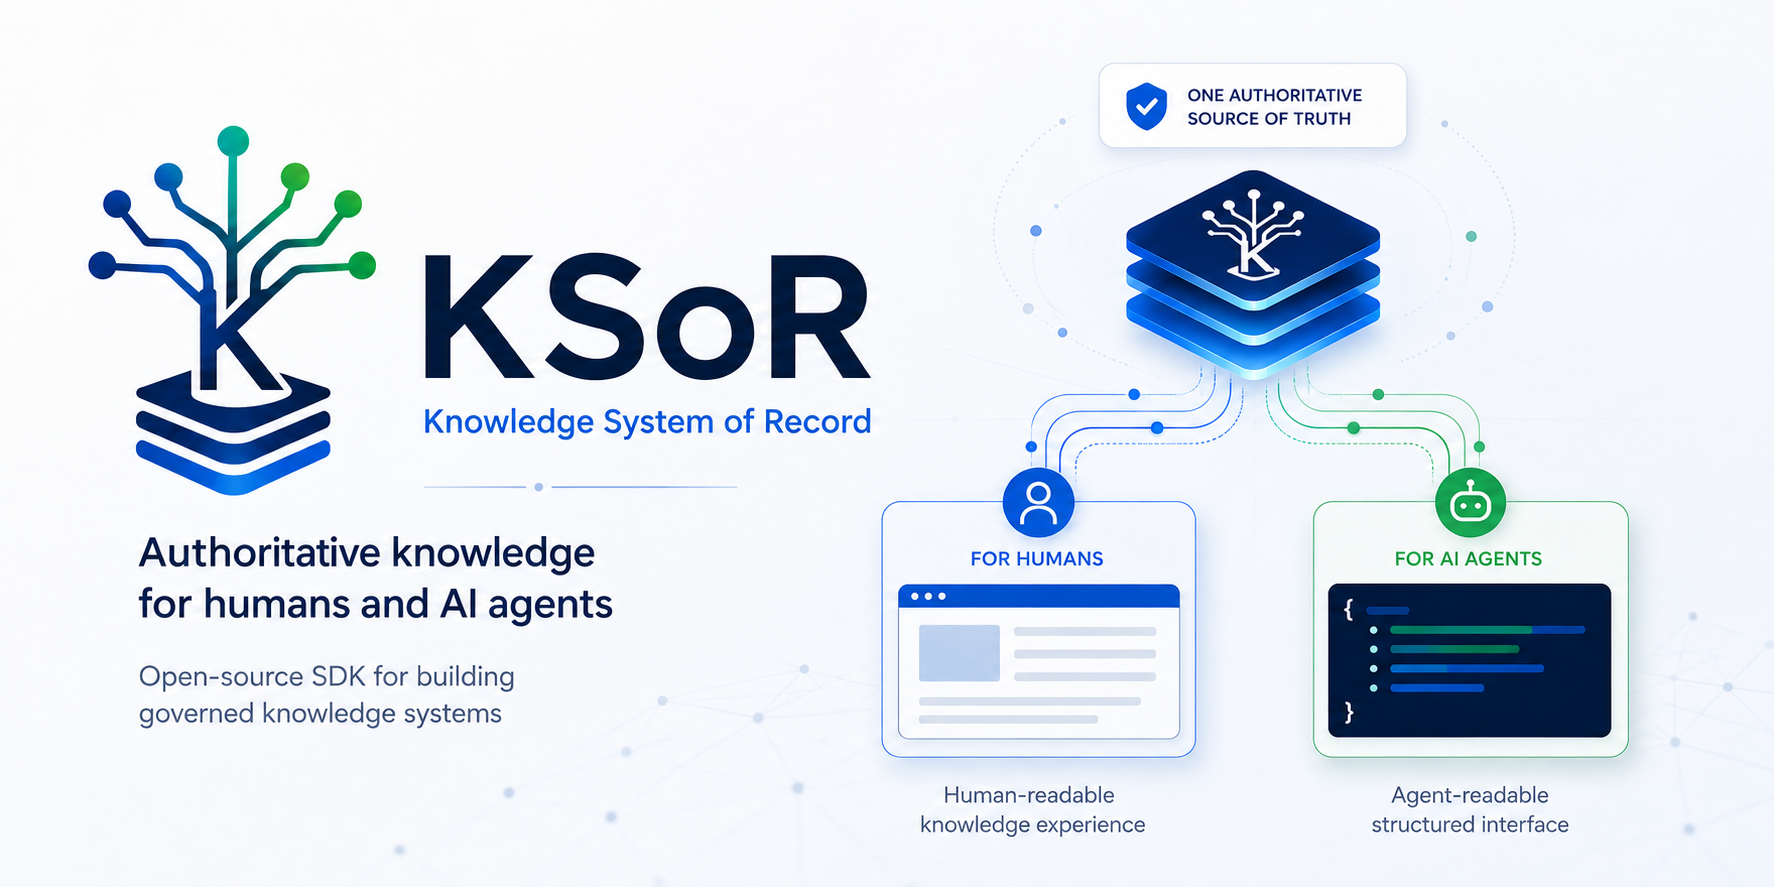
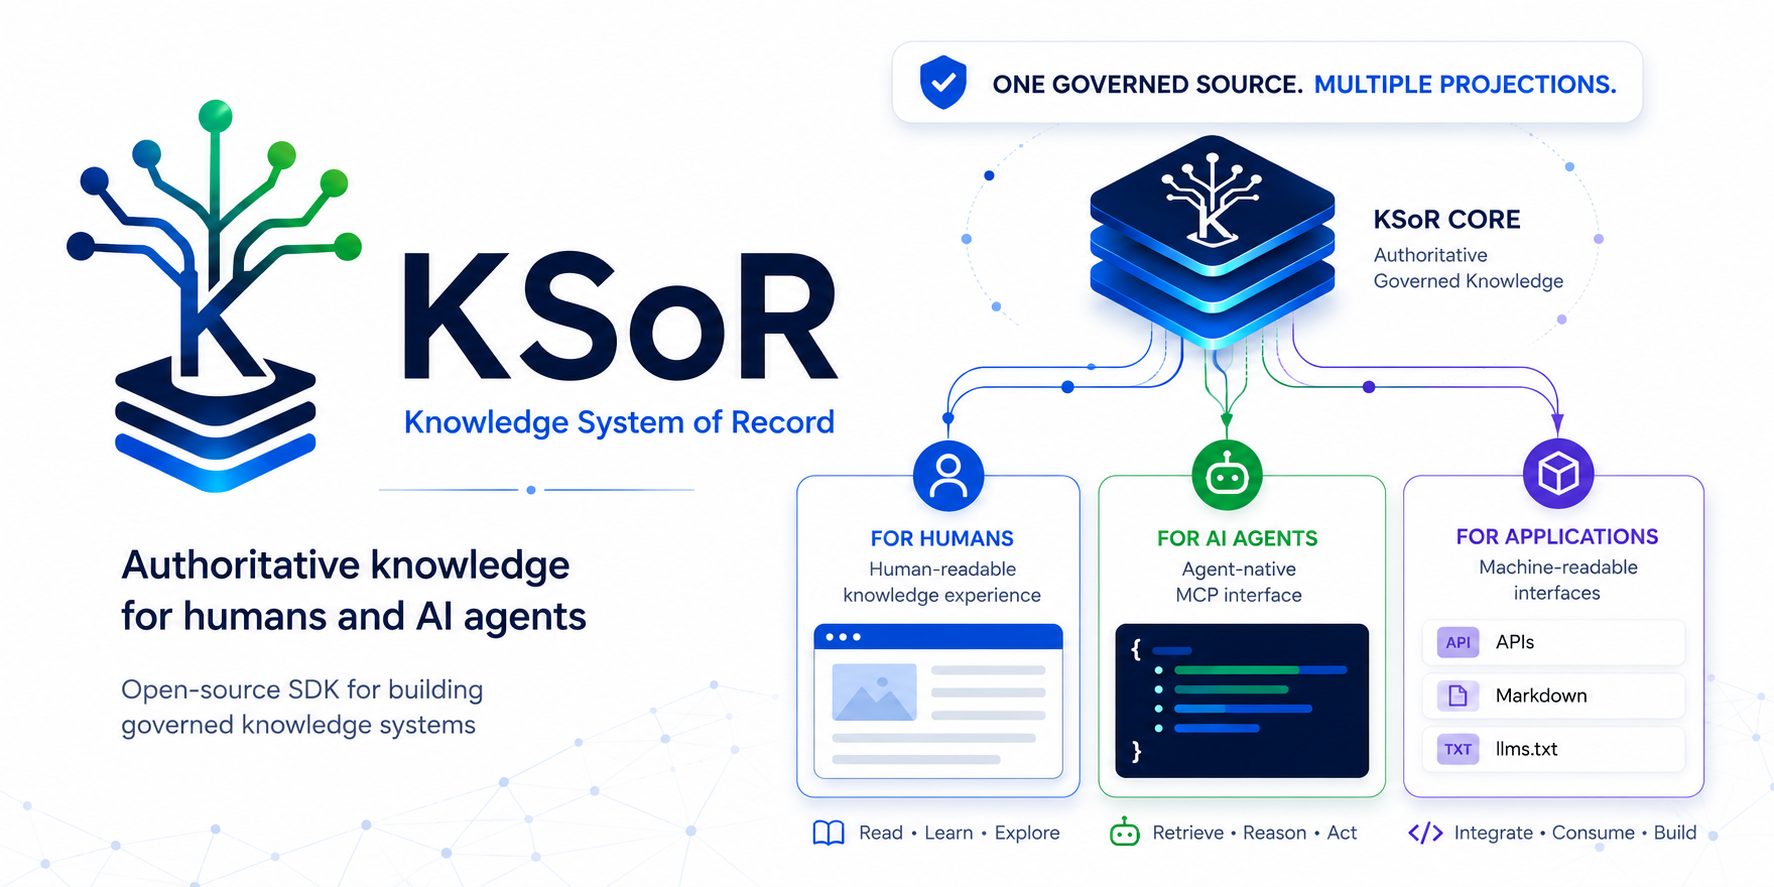
concept update: Agent Factory has evolved from a documentation site plus a RAG service into something closer to an AI-native knowledge

diff --git a/README.md b/README.md
@@ -1,19 +1,27 @@
 <p align="center">
-  <img src="https://raw.githubusercontent.com/panaversity/ksor/main/repo-image.png" alt="KSoR — Knowledge System of Record: authoritative knowledge for humans and AI agents" width="100%">
+  <img src="https://raw.githubusercontent.com/panaversity/ksor/main/repo-image.png" alt="KSoR — authoritative knowledge infrastructure for AI-native organizations" width="100%">
 </p>
 
 # KSoR
 
-**The Knowledge System of Record for humans and AI agents.**
+**The authoritative knowledge infrastructure for AI-native organizations.**
 
-KSoR turns governed knowledge into a single authoritative source that both people and AI agents can use.
+A **Knowledge System of Record (KSoR)** turns an organization's governed knowledge into infrastructure that humans, AI agents, and software can reliably operate from.
 
-Write and govern your knowledge once. KSoR publishes it through two synchronized surfaces:
+Traditional Systems of Record establish what is true about the current state of a business. A KSoR establishes **what the organization knows and how it should operate**.
 
-- a **human-readable knowledge site**, and
-- an **agent-readable interface** through MCP.
+Write and govern that knowledge once. KSoR makes the same institutional truth available through multiple synchronized projections:
 
-Both come from the same source, so humans and agents operate from the same institutional truth.
+- a **human experience** for reading, learning, reviewing, and sharing,
+- an **agent interface** through MCP for search, retrieval, citation, reasoning, and action,
+- **machine-readable representations** such as governed Markdown and `llms.txt`, and
+- an **agent-first maintenance context** that helps coding agents validate, evolve, test, and publish the record.
+
+All derive from the same authoritative source.
+
+The result is not merely a documentation site, knowledge base, vector database, RAG system, or MCP wrapper.
+
+> **KSoR is knowledge infrastructure for the AI-native organization.**
 
 ---
 
@@ -93,7 +101,7 @@ KSoR exists to solve that problem.
 
 # What Is a Knowledge System of Record?
 
-A **Knowledge System of Record — KSoR — is the authoritative, governed source of knowledge that humans and AI agents use to understand, decide, and act.**
+A **Knowledge System of Record — KSoR — is the authoritative, governed knowledge layer that humans, AI agents, and software use to understand, decide, and act.**
 
 It can contain:
 
@@ -132,7 +140,7 @@ A traditional System of Record and a Knowledge System of Record solve different 
 | Typical contents | Transactions, balances, customers, employees, inventory | Rules, policies, methods, procedures, standards, definitions |
 | Typical systems  | ERP, CRM, HRIS, accounting system                       | KSoR                                                         |
 | Core question    | **What is true right now?**                             | **What do we know and how should we operate?**               |
-| Optimized for    | Applications and business processes                     | Humans and AI agents                                         |
+| Optimized for    | Applications and business processes                     | Humans, AI agents, and software                              |
 | Authority        | Operational data                                        | Governed knowledge                                           |
 | Change mechanism | Transactions                                            | Review, governance, versioning                               |
 | AI role          | Tool consumer                                           | First-class knowledge consumer                               |
@@ -194,43 +202,71 @@ KSoR therefore treats **governance, provenance, citations, versioning, and abste
 
 ---
 
-# One Source. Two Surfaces.
+# Retrieval Is Not the Product
+
+KSoR may use search, indexing, embeddings, full-text retrieval, structured lookup, or other retrieval techniques.
+
+Those mechanisms are implementation details.
+
+KSoR is not fundamentally:
+
+- a vector database,
+- an embedding service,
+- a RAG framework,
+- a chatbot,
+- a document search engine,
+- or an MCP wrapper.
+
+Those technologies can help deliver a KSoR.
+
+They do not make something a KSoR.
+
+The defining property is **authoritative governed knowledge**.
+
+
+---
+
+# One Source. Multiple Projections.
 
 KSoR follows a simple principle:
 
-> **Humans and AI agents should not operate from different versions of organizational knowledge.**
+> **Humans, AI agents, and software should not operate from different versions of organizational knowledge.**
 
-Your governed source produces two surfaces.
+The governed record is the authority. Human, agent, and machine-facing experiences are **projections** of that record rather than separately maintained knowledge stores.
 
 ```text
-                     Governed Knowledge
-                           Markdown
-                              │
-                              │
-                        ┌─────┴─────┐
-                        │   KSoR    │
-                        └─────┬─────┘
-                              │
-               ┌──────────────┴──────────────┐
-               │                             │
-               ▼                             ▼
-        Human Surface                  Agent Surface
-        Knowledge Site                      MCP
-               │                             │
-        Search / Browse               Search / Retrieve
-        Read / Learn                  Cite / Reason
-        Review / Share                Abstain / Act
-               │                             │
-               └──────────────┬──────────────┘
-                              │
-                         Same Truth
+                         Governed Knowledge
+                              Markdown
+                                 │
+                                 ▼
+                            ┌─────────┐
+                            │  KSoR   │
+                            └────┬────┘
+                                 │
+          ┌──────────────────────┼──────────────────────┐
+          │                      │                      │
+          ▼                      ▼                      ▼
+   Human Projection       Agent Projection      Machine Projection
+   Next.js + Fumadocs          MCP              Markdown / llms.txt
+          │                      │                      │
+   Search / Browse        Search / Retrieve       Consume / Index
+   Read / Learn           Cite / Reason           Integrate / Build
+   Review / Share         Abstain / Act                 │
+          │                      │                      │
+          └──────────────────────┼──────────────────────┘
+                                 │
+                              Same Truth
 ```
 
-The website is not maintained separately from the agent corpus.
+A KSoR can also carry an **agent-first maintenance context** — for example `AGENTS.md` and reusable skills — so coding agents can work on the governed record without turning their own model context into a competing source of truth.
 
-The agent corpus is not an invisible copy of the website.
+The human experience is not maintained as a separate knowledge source.
 
-They are projections of the **same governed source**.
+The MCP interface is not an invisible copy of the website.
+
+Machine-readable outputs are not a third knowledge store.
+
+They are different projections of the **same governed source**.
 
 ---
 
@@ -244,7 +280,7 @@ Different consumers may receive different representations, but those representat
 
 ---
 
-## 2. Humans and Agents Are Both First-Class Consumers
+## 2. Humans, Agents, and Software Are First-Class Consumers
 
 Knowledge architecture can no longer assume that only people will read documentation.
 
@@ -254,7 +290,10 @@ Every important piece of institutional knowledge should be usable by:
 - AI assistants,
 - autonomous agents,
 - agent workflows,
-- and applications.
+- applications,
+- and machine-readable tooling.
+
+Different consumers may require different representations, but those representations should derive from the same governed record.
 
 ---
 
@@ -267,7 +306,7 @@ An answer is much more useful when you can determine:
 - when it was built,
 - and what source supported the claim.
 
-KSoR preserves the chain from source knowledge to generated surface.
+KSoR preserves the chain from source knowledge to generated projections.
 
 ---
 
@@ -462,8 +501,8 @@ pnpm dev
 ```
 
 The local knowledge site serves at `http://localhost:3000` and hot-reloads as
-you edit the Markdown source — the same corpus that will ultimately serve
-agents.
+you edit the Markdown source — the same governed corpus that will ultimately
+serve humans, agents, and machine-readable consumers.
 
 ---
 
@@ -485,7 +524,7 @@ provenance — is a future verb; see [`docs/status.md`](docs/status.md).)
 npx @panaversity/ksor serve
 ```
 
-The agent surface will expose the governed KSoR through MCP. This verb is
+The agent projection will expose the governed KSoR through MCP. This verb is
 designed, not implemented — the prose you write in your scaffold's
 `instance.md` is reserved as its future system prompt.
 
@@ -556,13 +595,17 @@ used by Example Corporation.
 
 ## `system/site/`
 
-The human-readable surface — a real Next.js + Fumadocs app that renders the
+The reference **human projection** — a real Next.js + Fumadocs app that renders the
 record, shipped as ordinary source code you own outright rather than an
 opaque hosted service. It is replaceable behind a five-clause surface
 contract (`specs/ksor/init/spec.md`): any shell that renders the record,
 degrades directives to readable text, serves `llms.txt`, passes the browser
 smoke, and never emits a document outside the audience it was built for is
 equally conformant.
+
+The reference site also exposes machine-readable output such as `llms.txt`.
+That output is another projection of the same governed record, not a separately
+maintained AI corpus.
 
 ---
 
@@ -571,6 +614,8 @@ equally conformant.
 Instructions and reusable skills for AI coding agents working on the KSoR.
 
 KSoR is designed to be **agent-first**.
+
+The agent-maintenance context is not itself authoritative knowledge. It tells coding agents **how to work on the authoritative record safely**.
 
 Instead of forcing users to manually perform repetitive repository operations, the project can carry the instructions an AI coding agent needs for recurring tasks such as:
 
@@ -674,9 +719,11 @@ the architecture should make the answer discoverable.
 
 ---
 
-# The Agent Surface
+# The Agent Projection
 
-KSoR uses the **Model Context Protocol (MCP)** as the interoperability boundary between governed knowledge and AI runtimes.
+KSoR uses the **Model Context Protocol (MCP)** as the reference interoperability boundary between governed knowledge and AI runtimes.
+
+MCP is an interface to the KSoR, not the KSoR itself.
 
 The goal is not to create another model-specific knowledge plugin.
 
@@ -704,28 +751,25 @@ The model or runtime becomes replaceable.
 
 ---
 
-# Retrieval Is Not the Product
+# The Machine Projection
 
-KSoR may use search, indexing, embeddings, full-text retrieval, structured lookup, or other retrieval techniques.
+AI-native systems increasingly need knowledge in forms that software can consume directly, without scraping a human documentation interface.
 
-Those mechanisms are implementation details.
+A KSoR can therefore expose representations such as:
 
-KSoR is not fundamentally:
+- canonical governed Markdown,
+- `llms.txt`,
+- structured metadata,
+- build manifests,
+- indexes,
+- and other machine-readable artifacts.
 
-- a vector database,
-- an embedding service,
-- a RAG framework,
-- a chatbot,
-- a document search engine,
-- or an MCP wrapper.
+These outputs are derived from the same governed record. They do not become independent sources of truth.
 
-Those technologies can help deliver a KSoR.
-
-They do not make something a KSoR.
-
-The defining property is **authoritative governed knowledge**.
+The durable asset remains the governed knowledge; each representation is replaceable.
 
 ---
+
 
 # KSoR and RAG
 
@@ -735,7 +779,7 @@ RAG answers:
 
 KSoR answers a broader question:
 
-> What knowledge is authoritative enough that an organization permits humans and AI agents to operate from it?
+> What knowledge is authoritative enough that an organization permits humans, AI agents, and software to operate from it?
 
 A useful relationship is:
 
@@ -748,8 +792,10 @@ KSoR
 ├── Versioning
 ├── Review
 ├── Scope
-├── Human Surface
-├── Agent Surface
+├── Human Projection
+├── Agent Projection
+├── Machine Projection
+├── Agent-First Maintenance Context
 │
 └── Retrieval
      ├── Search
@@ -772,7 +818,7 @@ A Content Management System asks:
 
 A KSoR asks:
 
-> Which knowledge is authoritative, governed, traceable, and safe for humans and agents to rely upon?
+> Which knowledge is authoritative, governed, traceable, and safe for humans, agents, and software to rely upon?
 
 Content is an input.
 
@@ -803,9 +849,11 @@ Approved
   ▼
 Authoritative KSoR
   │
-  ├──────────────► Human Surface
+  ├──────────────► Human Projection
   │
-  └──────────────► Agent Surface
+  ├──────────────► Agent Projection
+  │
+  └──────────────► Machine Projection
   │
   ▼
 Superseded / Retired
@@ -861,7 +909,9 @@ This distinction is essential for trustworthy agentic systems.
 
 # KSoR in an AI-Native Architecture
 
-KSoR becomes especially useful when AI agents begin performing real organizational work.
+An AI-native organization cannot rely on model memory, scattered documents, or an ungoverned RAG index as its institutional knowledge layer.
+
+KSoR becomes especially important when AI agents begin performing real organizational work because it gives humans, agents, and software a shared, governed basis for interpretation and action.
 
 ```text
                    Human / AI Worker
@@ -1008,7 +1058,9 @@ A KSoR should not require an organization to publish its institutional knowledge
 
 ## Agent Factory KSoR
 
-An Agent Factory KSoR can define the shared methodology used across many AI-native implementations:
+Agent Factory illustrates the transition KSoR is designed to support: from a human-readable book plus retrieval service toward an **AI-native knowledge platform** where humans and AI agents learn, reason, and operate from the same governed source of truth.
+
+The Agent Factory KSoR can define the shared methodology used across many AI-native implementations:
 
 ```text
 Agent Factory KSoR
@@ -1155,7 +1207,7 @@ The predecessor (vsor) implementation — reference material for this rebuild, n
 - automated testing,
 - and deployment workflows.
 
-The MCP-based agent surface is designed, not implemented — see [`docs/status.md`](docs/status.md).
+The MCP-based agent projection is designed, not implemented — see [`docs/status.md`](docs/status.md).
 
 See:
 
@@ -1197,7 +1249,7 @@ ksor dev
 
 ### `ksor build`
 
-Validate and build the deployable KSoR surfaces.
+Validate and build the deployable KSoR projections.
 
 ```bash
 ksor build
@@ -1305,14 +1357,14 @@ See [`LICENSE`](LICENSE) and [`NOTICE`](NOTICE).
 
 # The Idea in One Sentence
 
-> **A traditional System of Record tells an AI agent what is true about the business; a Knowledge System of Record tells it what the organization knows and how it should operate.**
+> **A traditional System of Record tells an AI system what is true about the business; a Knowledge System of Record tells humans, agents, and software what the organization knows and how it should operate.**
 
-KSoR makes that knowledge **authoritative, governed, traceable, human-readable, agent-readable, and vendor-neutral**.
+KSoR makes that knowledge **authoritative, governed, traceable, human-readable, agent-readable, machine-readable, and vendor-neutral**.
 
 ---
 
 ## KSoR
 
-**Knowledge you can govern. Answers you can trace. Boundaries agents can respect.**
+**Govern knowledge once. Let humans and AI operate from the same truth.**
 
 ---
